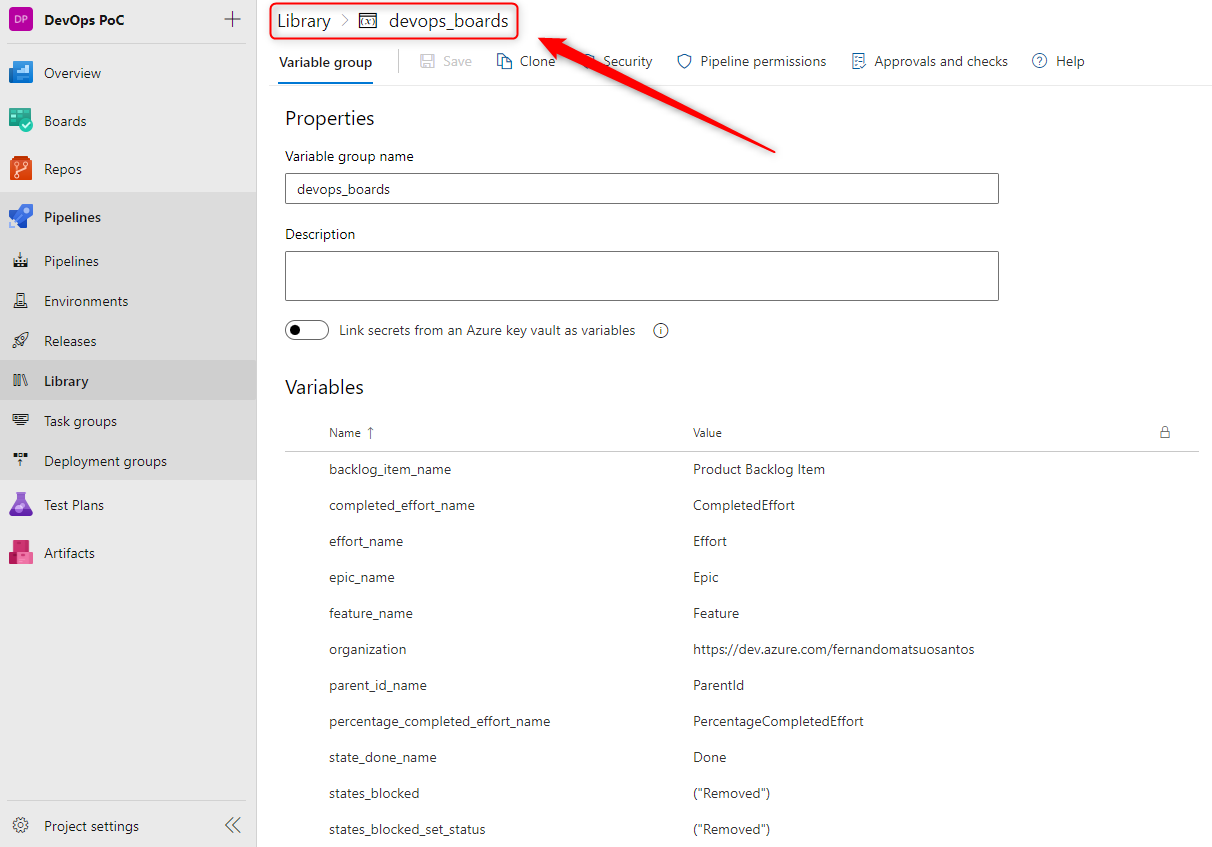
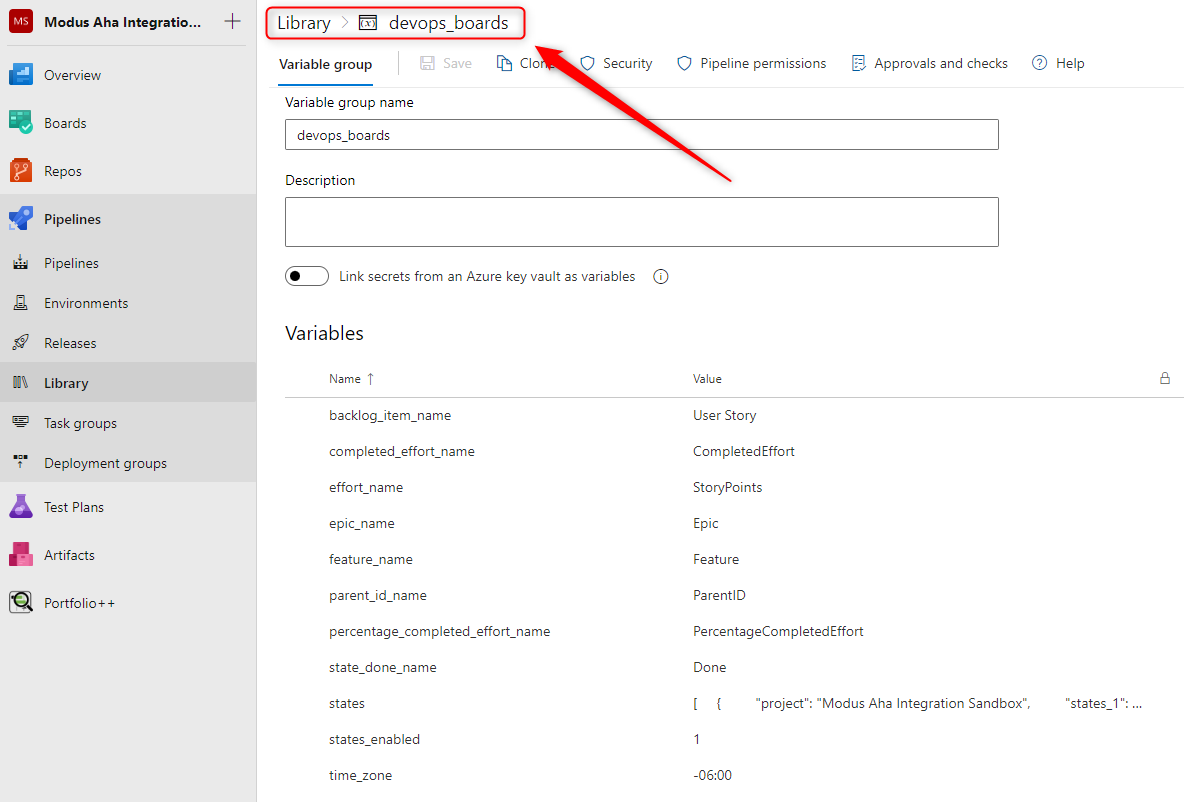
update readme

diff --git a/README.md b/README.md
@@ -23,6 +23,11 @@
 - The “Start Date” will be the minimum iteration date and the “Target Date” will be the maximum iteration date.  
 Example: If a “Feature“ has 3 “Product Backlog Items”, 2 “Product Backlog Items” assigned to “sprint 23.1.1“ and 1 “Product Backlog Items” assigned to “sprint 23.1.2“ the respective “Feature” will receive the following values: Start Date: 1/1/2023 and End Date: 1/14/2023.
 
+### Status Automation
+- Status will change automatically based on rules on file "states.json"
+- "states_x" means: If all Backlog Items are set to this state the parent feature will be set to states_x_set_status
+- "states_x_one" means: If any Backlog Items are set to this state the parent feature will be set to states_x_one_set_status
+
 ### Demo
 - There is a video showing how it works at:  
 https://github.com/ModusCreateOrg/azure-devops-boards-scripts/blob/main/docs/video/how_it_works.mp4?raw=true
@@ -37,6 +42,8 @@ The bash process uses the “az boards“ client which calls the Azure DevOps AP
 
 The fields on “Feature” will be updated a few seconds after saving the “Product Backlog Item” (as soon as the pipeline finishes running). The user must refresh the page to see the results after the update.
 To avoid using unnecessary resources the script will run only when fields (effort, state or interation) are updated on “Product Backlog Items”.
+
+If you set "states_enabled=1" on variable Library it will also run the status automation based on rules stored at variable Library called "states". The file states.json is a template to create the json. (Note: You must store the json on variable Library - the file is just a template - changing the file won't work)
 
 ## Installing on Azure Devops
 
@@ -57,7 +64,8 @@ To configure the process will be necessary “Administrative Access” to Azure 
 
 1.  Create the Interactions on Azure Devops based on the standards (Project Settings - Project Configuration)
 
-![Step 1](https://github.com/fernandomatsuosantos/az_devops/blob/main/docs/img/1.png?raw=true)
+![Step 1](https://github.com/fernandomatsuosantos/az_devops/blob/main/docs/img/1.png?raw=true)  
+Important note: If you don't have Strints (3rd. level interactions) the process won't calculate the “Start Date” and “End Date”
 
 2.  Customize the Azure Board adding the fields “Percentage Completed Effort” and “Completed Effort” on “features” and also a field called “ParentId” on “Product Backlog Item”;
 
@@ -86,7 +94,7 @@ To configure the process will be necessary “Administrative Access” to Azure 
 
 ![Step 6](https://github.com/fernandomatsuosantos/az_devops/blob/main/docs/img/6.png?raw=true)
 
-7.  Create the Service Hooks - You can use create_hook.txt as a template (Azure Devops won't accept creating multiple webhooks, so create one by one);
+7.  Create the Service Hooks (You can tun the file "/webhooks_create/webhooks_create.sh" to create the webhooks automatically - be sure you replaced the variables on bash file with the respective values)
 
 ![Step 7](https://github.com/fernandomatsuosantos/az_devops/blob/main/docs/img/7.png?raw=true)
 
